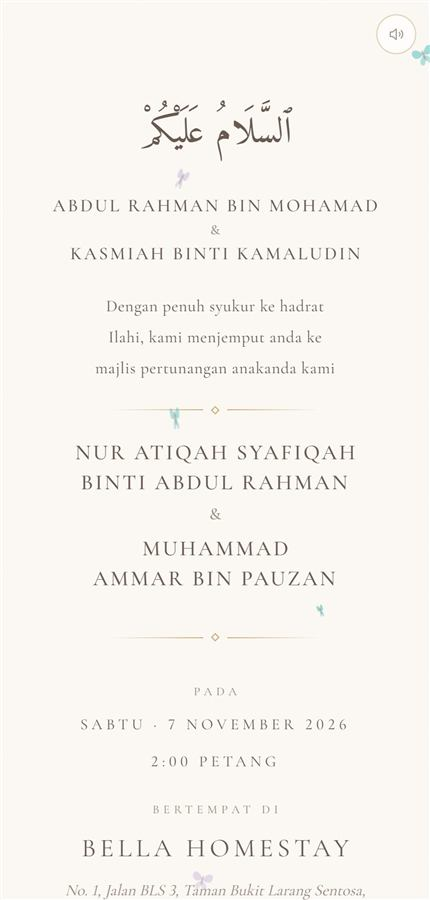
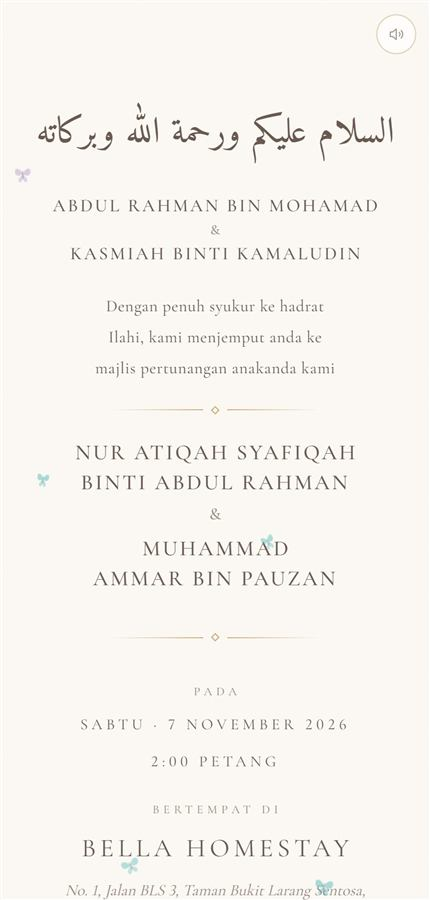
Refresh the jemputan docs for the full salam greeting

diff --git a/docs/05-jemputan.md b/docs/05-jemputan.md
@@ -15,7 +15,7 @@ Open paper, taupe ink, gold diamond rules — matching the rest of the site.
 
 | Line | Field in `INVITE` | Styled as |
 |---|---|---|
-| السلام عليكم | *(in the markup)* | Amiri, large |
+| السلام عليكم ورحمة الله وبركاته | *(in the markup — edit it there)* | Amiri, large; wraps to two lines on small phones |
 | Father's name | `bapa` | spaced capitals |
 | & | | small, soft |
 | Mother's name | `ibu` | spaced capitals |
